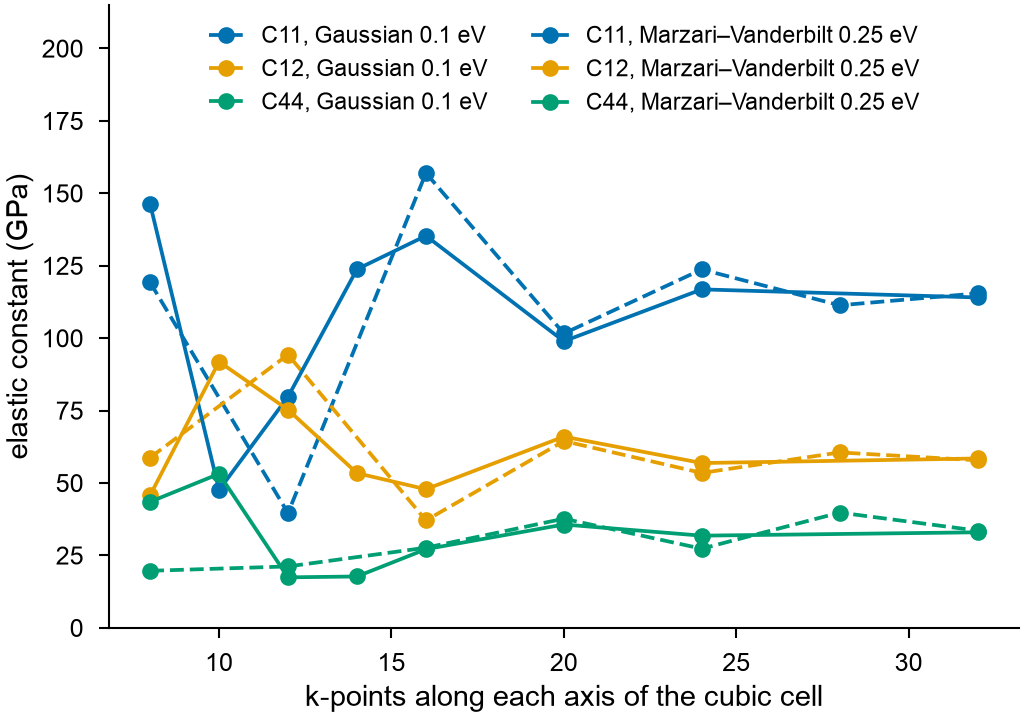
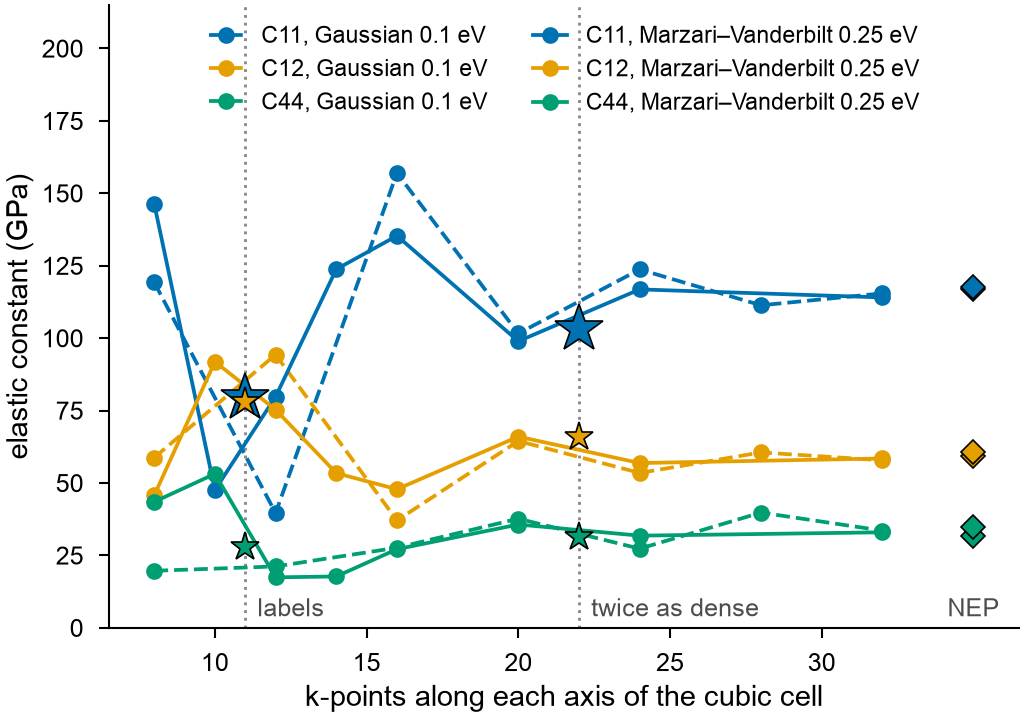
Docs: the Al example tabulates the elastic constants of the DFT on four meshes and of the models, marks the labels' mesh (11 k-points along each axis) and the models on the figure of the k-points, shown smaller, and says why the models give the converged values: a smooth fit to hundreds of strained 

diff --git a/docs/examples/dft-potential/figures.py b/docs/examples/dft-potential/figures.py
@@ -82,6 +82,23 @@ with plot.style():
         for key, color in [("C11", "C0"), ("C12", "C1"), ("C44", "C2")]:
             ax.plot(n, [rows[m][key] for m in n], line, marker="o", ms=3, c=color, lw=0.9,
                     label=f"{key}, {smearing}")  # fmt: skip
+    # the mesh of the labels, 11 k-points along each axis of the cubic cell, and twice as
+    # dense: the elastic constants of the DFT in the properties above (stars; C11 the
+    # larger, as it nearly equals C12 on the labels' mesh); at the right, the models'
+    for k, mesh in (("dft", 11), ("dft-fine", 22)):
+        c = np.asarray(props[k]["elastic_GPa"])
+        for value, color, size in zip((c[0, 0], c[0, 1], c[3, 3]), ("C0", "C1", "C2"), (12, 7, 7)):  # fmt: skip
+            ax.plot(mesh, value, "*", ms=size, c=color, mec="k", mew=0.4, zorder=3)
+        ax.axvline(mesh, c="0.55", lw=0.7, ls=":", zorder=0)
+    for k in ("nep_0", "nep_1"):
+        c = np.asarray(props[k]["elastic_GPa"])
+        for value, color in zip((c[0, 0], c[0, 1], c[3, 3]), ("C0", "C1", "C2")):
+            ax.plot(35, value, "D", ms=4, c=color, mec="k", mew=0.4, zorder=3)
+    ax.text(11.4, 4, "labels", fontsize=6, color="0.3")
+    ax.text(22.4, 4, "twice as dense", fontsize=6, color="0.3")
+    ax.text(35, 4, "NEP", fontsize=6, color="0.3", ha="center")
+    ax.set_xlim(6.5, 36.5)
+    ax.set_xticks([10, 15, 20, 25, 30])  # no tick under the models
     ax.set(
         xlabel="k-points along each axis of the cubic cell",
         ylabel="elastic constant (GPa)",

diff --git a/docs/examples/dft-potential.md b/docs/examples/dft-potential.md
@@ -340,10 +340,23 @@ cubic cell, the DFT gives C11, C12 and C44 of 79, 78 and 28 GPa; with the mesh t
 dense 103, 66 and 31. On meshes from 8 to 32 k-points along each axis of the cubic cell
 of four atoms ([`kconv.py`](dft-potential/kconv.py)):
 
-![C11, C12 and C44 of the DFT against the mesh of k-points, with two smearings](images/dft-potential-kpoints.png)
+![C11, C12 and C44 of the DFT against the mesh of k-points, with two smearings](images/dft-potential-kpoints.png){ width="60%" }
 
 *The elastic constants of the DFT jump with the mesh up to about 20 k-points along each
-axis and settle from 24, at 114, 58 and 33 GPa with 32, the two smearings alike.*
+axis and settle from 24, at 114, 58 and 33 GPa with 32, the two smearings alike. Stars:
+the DFT on the mesh of the labels, 11 k-points along each axis, and on one twice as
+dense; diamonds, at the right: the two models.*
+
+| | C11 (GPa) | C12 (GPa) | C44 (GPa) |
+|---|---:|---:|---:|
+| DFT, the labels' mesh (11³ on the cubic cell) | 79 | 78 | 28 |
+| DFT, k-points twice as dense (22³) | 103 | 66 | 31 |
+| DFT, 24³ | 117 | 57 | 32 |
+| DFT, 32³ | 114 | 58 | 33 |
+| NEP, seed 0 | 117 | 59 | 32 |
+| NEP, seed 1 | 118 | 61 | 35 |
+
+*The DFT with the smearing of Marzari and Vanderbilt of 0.25 eV, as the labels.*
 
 The phonons depend on the mesh far less: with k-points twice as dense they move by
 0.5 % (the table above), where C11 moves by a quarter. A strain of 1 % shifts the energy
@@ -367,9 +380,17 @@ Fermi–Dirac, −TS of about 1 meV per atom or less, or an extrapolation to σ 
 cold smearing the bias is small even where −TS is not. Here MV of 0.25 eV gives the
 same elastic constants as a Gaussian of 0.1 eV on the dense meshes.
 
-The models give 117 and 118 GPa for C11, 59 and 61 for C12, and 32 and 35 for C44:
-close to the converged DFT, which no label computed. That they agree is luck as much as
-learning: the elastic constants of the labels' DFT are not those values. Quantum
+The models give the elastic constants of the converged DFT, though the DFT of their
+labels gives others. They do not learn its finite differences: on the labels' mesh the
+energy of each cell carries an error of the k-points that jumps from cell to cell as
+bands cross the Fermi level, steps as large as the elastic energy of a strain of 1 %.
+The model is a smooth function of the atoms fitted to hundreds of cells strained by up to
+5 %; it cannot follow those steps and averages them out, keeping the smooth curvature
+under them. Fitted to fewer cells, models follow the labels more closely: trained on the
+196 cells within 2 eV per atom of the lowest alone, they gave C11 of 89 to 99 GPa. What
+the fit averages out is the scatter of the labels, not their bias: an error the same in
+every cell, of the pseudopotential, the functional or the smearing, the model learns as
+it is. Quantum
 ESPRESSO on the same cell, pseudopotential, mesh and Gaussian smearing gives C11 of
 156.8 and 123.4 GPa with 16 and 24 k-points along each axis, where MDAPY gives 157.0 and
 123.7: the jumps are aluminium's, not the code's.
